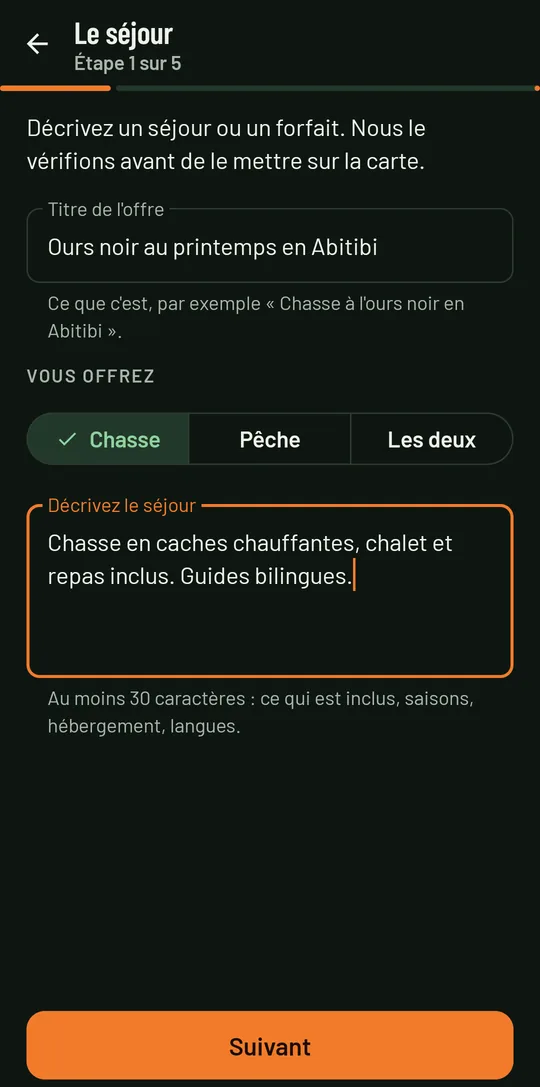
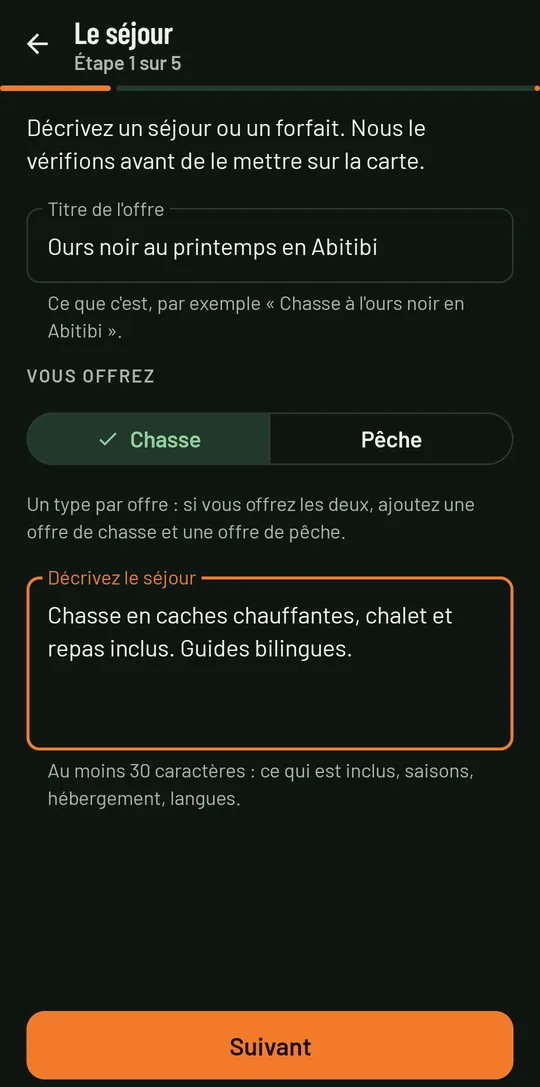
Guides page: one type per offer, and the new screenshots
The trip step says an offer is hunting or fishing (two offers for both); the home page's
pins and legend drop "both". Screenshots retaken with the app's new form: Hunting / Fishing
only, French button labels on two lines instead of cut off.

diff --git a/data/BRIEF.md b/data/BRIEF.md
@@ -6,7 +6,7 @@ who search the web for a guided hunt or fishing trip and have nobody to show the
 a visitor from France or the US who wants a black bear hunt in Québec).
 
 How the app works (state only this, never invent features):
-- Map of guides, a pin per guide: orange = hunting, teal = fishing, gold = both. Filters: hunting / fishing, then a
+- Map of guides, a pin per offer: orange = hunting, teal = fishing (an offer is one or the other; a guide with both makes two offers). Filters: hunting / fishing, then a
   species. With the user's approximate location (stays on the phone) each guide shows how far away it is.
 - A guide's offer: title, what's included, region, species, price per person "from" (or on request), how long a
   trip lasts (half day to weeks) and its departure dates (or "Dates on request"); the next departure shows, the others
